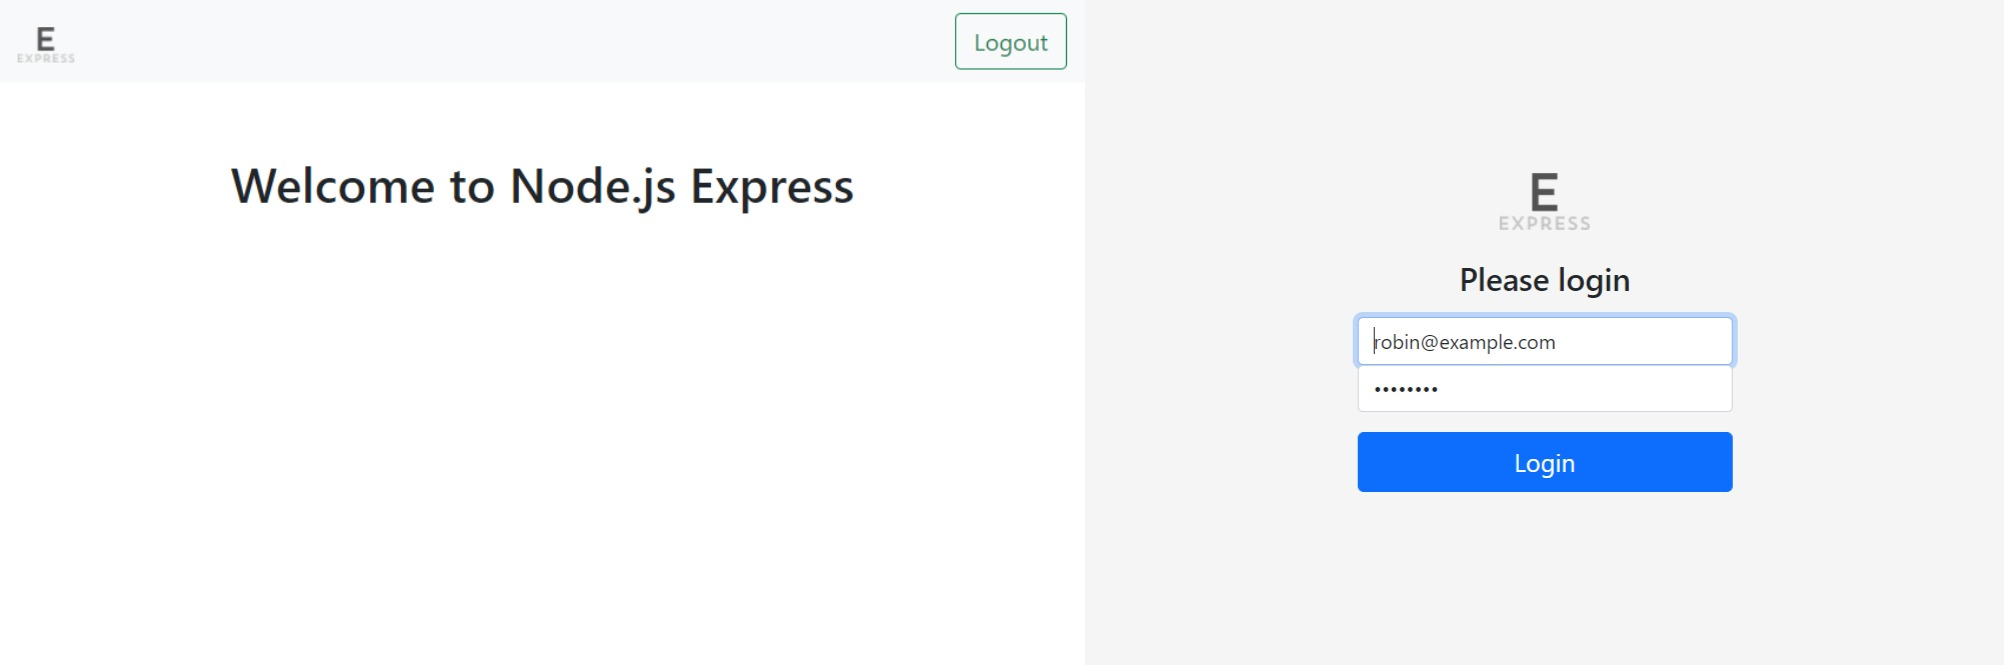
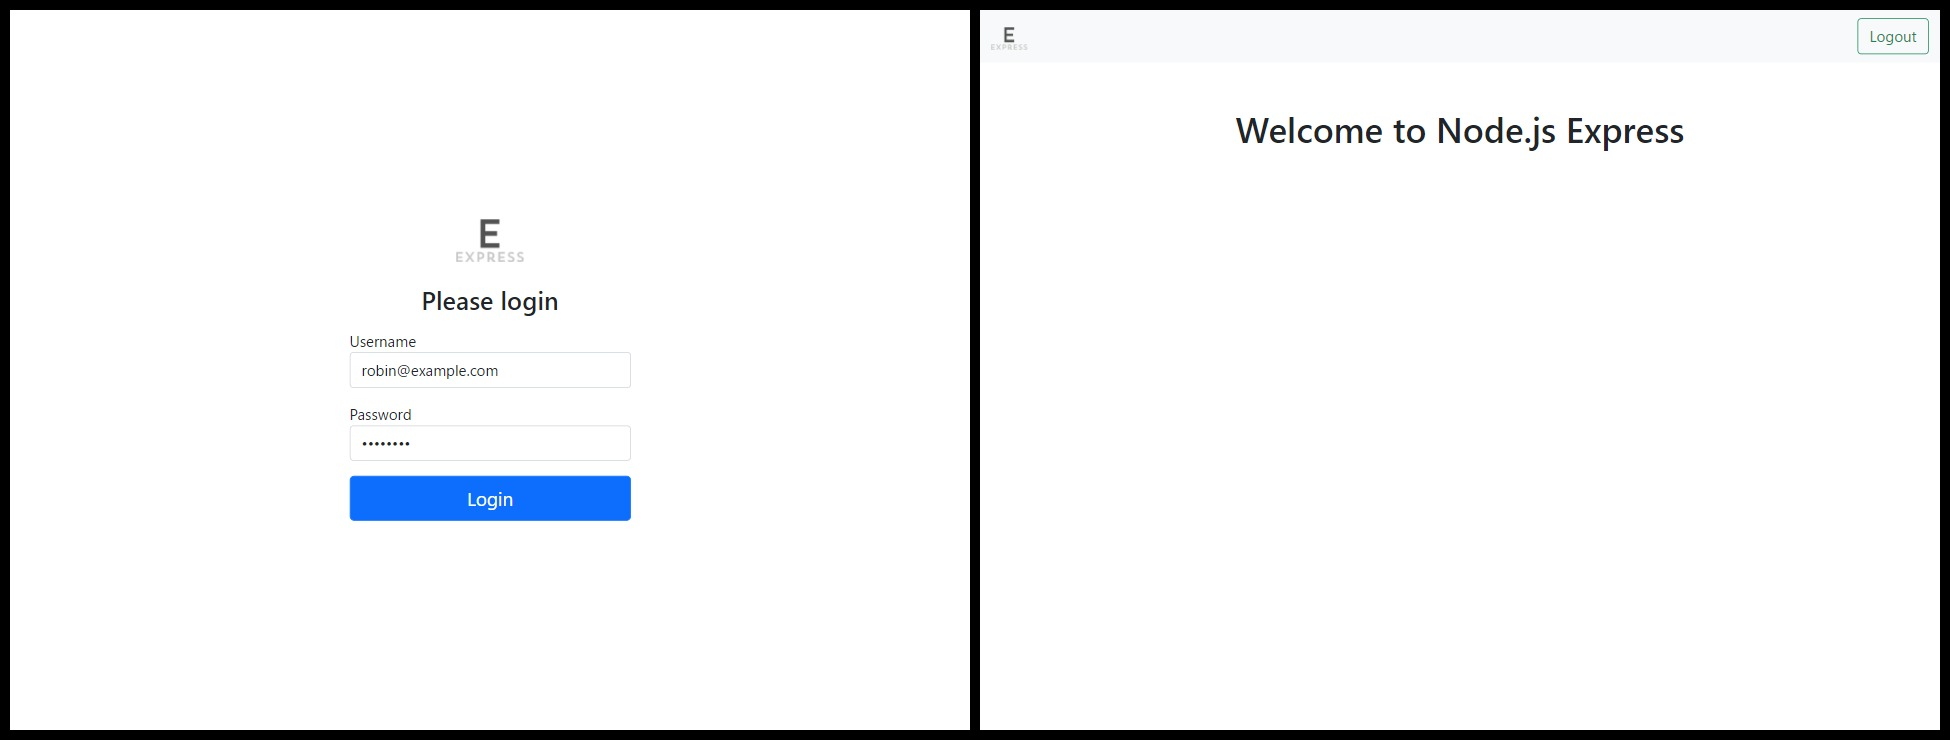
Refactor the sample page design.

diff --git a/public/assets/login.css b/public/assets/login.css
@@ -8,23 +8,9 @@ body {
   justify-content: center;
   padding-top: 40px;
   padding-bottom: 40px;
-  background-color: #f5f5f5;
 }
 
   .login-form {
-    width: 100%;
     max-width: 330px;
     padding: 15px;
-    margin: 0 auto;
   }
-
-    .login-form form {
-      margin-bottom: 15px;
-      background: #f7f7f7;
-      box-shadow: 0px 2px 2px rgb(0 0 0 / 30%);
-      padding: 30px;
-    }
-
-      .form-group {
-        margin-bottom: 1rem;
-      }

diff --git a/CHANGELOG.md b/CHANGELOG.md
@@ -1,5 +1,9 @@
 # Changelog
 
+## [0.0.17] - 2021-4-8
+
+* Refactor the sample page design.
+
 ## [0.0.16] - 2021-4-5
 
 * Fixed typographical errors in the material.
